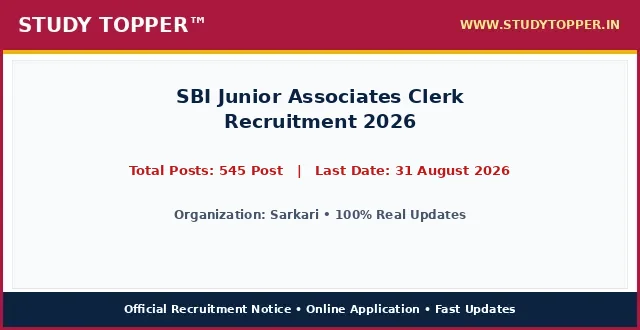
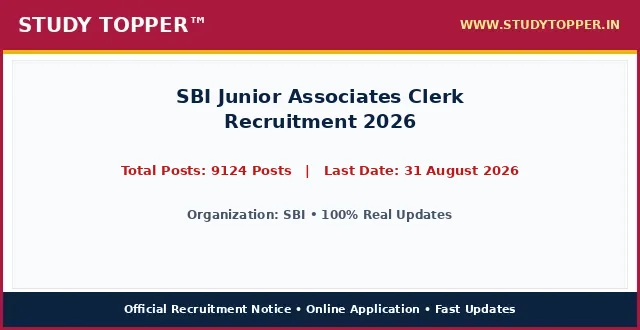
chore(lifecycle): daily auto-sort vacancies and update active dates

Changed region(s): [[0.1875, 0.4848, 0.8125, 0.5455], [0.25, 0.6364, 0.75, 0.6667]]

diff --git a/pages/sbi-junior-associates-clerk-2026.html b/pages/sbi-junior-associates-clerk-2026.html
@@ -987,12 +987,12 @@ ul.wp-block-latest-posts a:hover {
 <main class="site-main" id="main">
 <div class="gb-container gb-container-b39c368c">
 <h1 class="gb-headline gb-headline-e52a0102 gb-headline-text" style="font-size: 22px; font-weight: 700; color: #0000cd; text-align: left; margin: 8px 0 4px 0; line-height: 1.3; width: 100%; font-family: '-apple-system, BlinkMacSystemFont, 'Segoe UI', Roboto, 'Helvetica Neue', Arial, sans-serif', Times, serif, Hind, sans-serif;">SBI Junior Associates Clerk Recruitment 2026</h1>
-<div class="gb-container gb-container-659bd175"><p style="color: #cd0808; font-weight: 700; font-size: 15px; margin: 2px 0 7px 0; text-align: left; font-family: '-apple-system, BlinkMacSystemFont, 'Segoe UI', Roboto, 'Helvetica Neue', Arial, sans-serif', Times, serif, Hind, sans-serif;">Post Date: August 22, 2026 11:45 AM</p></div>
-<p class="gb-headline gb-headline-550ae316 short_Details gb-headline-text" style="width: 100%; max-width: 100%; font-size: 16.8px; line-height: 1.55; color: #000000; text-align: justify; text-justify: inter-word; margin: 8px 0 14px 0; display: block; font-family: '-apple-system, BlinkMacSystemFont, 'Segoe UI', Roboto, 'Helvetica Neue', Arial, sans-serif', Times, serif, Hind, sans-serif;"><strong style="color: #0000cd;">Sarkari</strong> has officially published the recruitment notice <strong style="color: #cd0808;">SBI Junior Associates Clerk Recruitment 2026</strong> under notification number Official Advt 2026. Online applications are invited for 545 Post across multiple departments and cadre positions. Interested candidates possessing the requisite educational qualifications and falling between 18 Years to 40 Years can complete their online registration before the application deadline of 31 August 2026. Applicants should read the eligibility criteria, category reservation rules, and exam scheme thoroughly before submitting applications.</p>
+<div class="gb-container gb-container-659bd175"><p style="color: #cd0808; font-weight: 700; font-size: 15px; margin: 2px 0 7px 0; text-align: left; font-family: '-apple-system, BlinkMacSystemFont, 'Segoe UI', Roboto, 'Helvetica Neue', Arial, sans-serif', Times, serif, Hind, sans-serif;">Post Date: August 22, 2026 12:38 PM</p></div>
+<p class="gb-headline gb-headline-550ae316 short_Details gb-headline-text" style="width: 100%; max-width: 100%; font-size: 16.8px; line-height: 1.55; color: #000000; text-align: justify; text-justify: inter-word; margin: 8px 0 14px 0; display: block; font-family: '-apple-system, BlinkMacSystemFont, 'Segoe UI', Roboto, 'Helvetica Neue', Arial, sans-serif', Times, serif, Hind, sans-serif;"><strong style="color: #0000cd;">State Bank of India (SBI)</strong> has officially published the recruitment notice <strong style="color: #cd0808;">SBI Junior Associates Clerk Recruitment 2026</strong> under notification number 2026. Online applications are invited for 9124 Posts across multiple departments and cadre positions. Interested candidates possessing the requisite educational qualifications and falling between 18 Years to 40 Years can complete their online registration before the application deadline of 31 August 2026. Applicants should read the eligibility criteria, category reservation rules, and exam scheme thoroughly before submitting applications.</p>
 <div class="gb-container gb-container-9849916c"><div class="social-buttons-compact" style="display: flex; justify-content: flex-start; align-items: center; gap: 10px; margin: 10px 0 16px 0; width: 100%;"><a class="social-btn-compact wa" href="https://whatsapp.com/channel/0029Va9xyz" rel="noopener" style="background-color: #00d084; color: #ffffff; padding: 10px 18px; border-radius: 4px; text-decoration: none; font-weight: bold; font-size: 15.5px; display: inline-flex; align-items: center; justify-content: center; height: auto;" target="_blank">WhatsApp</a><a class="social-btn-compact tg" href="https://t.me/studytopperofficial" rel="noopener" style="background-color: #0088cc; color: #ffffff; padding: 10px 18px; border-radius: 4px; text-decoration: none; font-weight: bold; font-size: 15.5px; display: inline-flex; align-items: center; justify-content: center; height: auto;" target="_blank">Telegram</a></div></div>
 <div class="gb-container gb-container-f58e6ca1" style="border: 2px solid #5b032f; border-radius: 4px; overflow: hidden; margin: 15px 0 20px 0; background-color: #ffffff; width: 100%; box-sizing: border-box;">
 <h2 class="gb-headline gb-headline-2ca5a791 gb-headline-text" style="font-size: 16px; font-weight: 700; text-align: center; color: #ef0303; line-height: 1.3; padding: 6px 4px; margin: 0; background: #ffffff; font-family: '-apple-system, BlinkMacSystemFont, 'Segoe UI', Roboto, 'Helvetica Neue', Arial, sans-serif', Times, serif, Hind, sans-serif;">SBI Junior Associates Clerk Recruitment 2026 &ndash; Latest Details &amp; Updates</h2>
-<h3 class="gb-headline gb-headline-7d5f86e8 gb-headline-text" style="font-size: 16px; font-weight: 600; text-align: center; color: #009703; line-height: 1.25; margin: 0; padding: 2px 4px 6px 4px; background: #ffffff; font-family: '-apple-system, BlinkMacSystemFont, 'Segoe UI', Roboto, 'Helvetica Neue', Arial, sans-serif', Times, serif, Hind, sans-serif;">Sarkari : Details &amp; Summary</h3>
+<h3 class="gb-headline gb-headline-7d5f86e8 gb-headline-text" style="font-size: 16px; font-weight: 600; text-align: center; color: #009703; line-height: 1.25; margin: 0; padding: 2px 4px 6px 4px; background: #ffffff; font-family: '-apple-system, BlinkMacSystemFont, 'Segoe UI', Roboto, 'Helvetica Neue', Arial, sans-serif', Times, serif, Hind, sans-serif;">State Bank of India (SBI) : Details &amp; Summary</h3>
 <p class="gb-headline gb-headline-79adf169 gb-headline-text" style="margin: 0 0 6px 0; font-family: '-apple-system, BlinkMacSystemFont, 'Segoe UI', Roboto, 'Helvetica Neue', Arial, sans-serif', Times, serif, Hind, sans-serif; text-align: center; font-size: 18px; font-weight: 700;"><a href="/" style="color: #0000ff; text-decoration: underline;">StudyTopper.in</a></p>
 
 <style id="st-post-boxes-responsive-css">
@@ -1025,7 +1025,7 @@ ul.wp-block-latest-posts a:hover {
     <div style="background-color: #5b032f; color: #ffffff; padding: 8px 10px; font-size: 20px; font-weight: 700; text-align: center; font-family: '-apple-system, BlinkMacSystemFont, 'Segoe UI', Roboto, 'Helvetica Neue', Arial, sans-serif', Times, serif, Hind, sans-serif;">Important Dates</div>
     <div style="padding: 12px 14px; background-color: #ffffff;">
       <ul style="padding-left: 20px; margin: 0; list-style-type: disc; text-align: left; font-size: 14pt; line-height: 1.6; font-family: '-apple-system, BlinkMacSystemFont, 'Segoe UI', Roboto, 'Helvetica Neue', Arial, sans-serif', Times, serif, Hind, sans-serif;">
-        
+        <li><span style="font-size: 14pt;">Application Begin : <strong>As per Official Notification</strong></span></li><li><span style="font-size: 14pt;">Last Date for Apply Online : <span style="color: #ff0000;"><strong>31 August 2026</strong></span></span></li><li><span style="font-size: 14pt;">Pay Exam Fee Last Date : <span style="color: #ff0000;"><strong>31 August 2026</strong></span></span></li><li><span style="font-size: 14pt;">Exam Date : <strong>As per Schedule</strong></span></li><li><span style="font-size: 14pt;">Admit Card Available : <strong>Before Examination</strong></span></li>
       </ul>
     </div>
   </div>
@@ -1034,7 +1034,7 @@ ul.wp-block-latest-posts a:hover {
     <div style="background-color: #5b032f; color: #ffffff; padding: 8px 10px; font-size: 20px; font-weight: 700; text-align: center; font-family: '-apple-system, BlinkMacSystemFont, 'Segoe UI', Roboto, 'Helvetica Neue', Arial, sans-serif', Times, serif, Hind, sans-serif;">Application Fee</div>
     <div style="padding: 12px 14px; background-color: #ffffff;">
       <ul style="padding-left: 20px; margin: 0; list-style-type: disc; text-align: left; font-size: 14pt; line-height: 1.6; font-family: '-apple-system, BlinkMacSystemFont, 'Segoe UI', Roboto, 'Helvetica Neue', Arial, sans-serif', Times, serif, Hind, sans-serif;">
-        <li><span style="font-size: 14pt;">Bihar Police BPSSC Sub Inspector SI Prohibition Result 2026 Advt. No. : <strong>03/2026</strong></span></li><li><span style="font-size: 14pt;">UP Scholarship Online Form 2026 : <strong>2027</strong></span></li>
+        <li><span style="font-size: 14pt;">General / OBC / EWS : <strong>Check Official Notification</strong></span></li><li><span style="font-size: 14pt;">SC / ST / PH : <strong>Check Official Notification</strong></span></li><li><span style="font-size: 14pt;">Payment Mode : <strong>Online Fee Mode via Net Banking, Debit/Credit Card or Offline Challan</strong></span></li>
       </ul>
       <div style="margin-top: 10px; font-size: 14pt; line-height: 1.5; color: #000000; border-top: 1px dashed #ccc; padding-top: 8px; font-family: '-apple-system, BlinkMacSystemFont, 'Segoe UI', Roboto, 'Helvetica Neue', Arial, sans-serif', Times, serif, Hind, sans-serif;">
         <strong>Mode of Payment / Access:</strong> Online via Net Banking, Debit Card, Credit Card, UPI or Free Candidate Portal.
@@ -1047,10 +1047,10 @@ ul.wp-block-latest-posts a:hover {
 <div class="st-grid-row" style="display: flex; flex-wrap: wrap; width: 100%; border-top: 2px solid #5b032f; margin: 0; padding: 0; box-sizing: border-box;">
   <!-- Left Col: Age Limits -->
   <div class="st-col-half st-col-border-right" style="box-sizing: border-box; vertical-align: top;">
-    <div style="background-color: #046132; color: #ffffff; padding: 8px 10px; font-size: 17px; font-weight: 700; text-align: center; font-family: '-apple-system, BlinkMacSystemFont, 'Segoe UI', Roboto, 'Helvetica Neue', Arial, sans-serif', Times, serif, Hind, sans-serif;">Sarkari : Age Limits As On 01 August 2026</div>
+    <div style="background-color: #046132; color: #ffffff; padding: 8px 10px; font-size: 17px; font-weight: 700; text-align: center; font-family: '-apple-system, BlinkMacSystemFont, 'Segoe UI', Roboto, 'Helvetica Neue', Arial, sans-serif', Times, serif, Hind, sans-serif;">State Bank of India (SBI) : Age Limits As On 01/08/2026</div>
     <div style="padding: 12px 14px; background-color: #ffffff;">
       <ul style="padding-left: 20px; margin: 0; list-style-type: disc; text-align: left; font-size: 14pt; line-height: 1.6; font-family: '-apple-system, BlinkMacSystemFont, 'Segoe UI', Roboto, 'Helvetica Neue', Arial, sans-serif', Times, serif, Hind, sans-serif;">
-        
+        <li><span style="font-size: 14pt;">Minimum Age : <strong>18 Years (As per post rules)</strong></span></li><li><span style="font-size: 14pt;">Maximum Age : <strong>40 Years (As per post rules)</strong></span></li><li><span style="font-size: 14pt;">Age Relaxation : <strong>Age Relaxation Extra as per SBI Recruitment Rules.</strong></span></li>
       </ul>
     </div>
   </div>
@@ -1058,7 +1058,7 @@ ul.wp-block-latest-posts a:hover {
   <div class="st-col-half" style="box-sizing: border-box; vertical-align: top;">
     <div style="background-color: #f53c00; color: #ffffff; padding: 8px 10px; font-size: 20px; font-weight: 700; text-align: center; font-family: '-apple-system, BlinkMacSystemFont, 'Segoe UI', Roboto, 'Helvetica Neue', Arial, sans-serif', Times, serif, Hind, sans-serif;">Total Post</div>
     <div style="padding: 24px 10px; background-color: #ffffff; text-align: center;">
-      <span style="font-size: 28px; font-weight: 800; color: #000000; font-family: '-apple-system, BlinkMacSystemFont, 'Segoe UI', Roboto, 'Helvetica Neue', Arial, sans-serif', Times, serif, Hind, sans-serif;">545 Post</span>
+      <span style="font-size: 28px; font-weight: 800; color: #000000; font-family: '-apple-system, BlinkMacSystemFont, 'Segoe UI', Roboto, 'Helvetica Neue', Arial, sans-serif', Times, serif, Hind, sans-serif;">9124 Posts</span>
     </div>
   </div>
 </div>
@@ -1070,7 +1070,19 @@ ul.wp-block-latest-posts a:hover {
 <div class="gb-container gb-container-ec1f6e4c">
 <h2 class="gb-headline gb-headline-c7683bda gb-headline-text" style="font-size: 24px; font-weight: 800; text-align: center; color: #ef0303; line-height: 1.35; margin: 20px 0 12px 0; padding: 6px 4px; font-family: '-apple-system, BlinkMacSystemFont, 'Segoe UI', Roboto, 'Helvetica Neue', Arial, sans-serif', Times, serif, Hind, sans-serif;">SBI Junior Associates Clerk Recruitment 2026 : Key Overview &amp; Matrix</h2>
 <div class="gb-headline gb-headline-60ccea19 gb-headline-text">
-
+<table style="border-collapse: collapse; width: 100%; height: 150px;">
+<tbody>
+<tr style="height: 25px;">
+<td colspan="2" style="width: 50%; text-align: center; height: 25px;"><span style="background-color: #000080; color: #ffffff; font-size: 14pt;"><strong> State Bank of India (SBI) : Category Wise Vacancy Details </strong></span></td>
+</tr>
+<tr style="height: 25px;">
+<td style="width: 50%; height: 25px; text-align: center;"><span style="font-size: 14pt;"><strong>Category / Particulars</strong></span></td>
+<td style="width: 50%; height: 25px; text-align: center;"><span style="font-size: 14pt;"><strong>Count / Status</strong></span></td>
+</tr>
+<tr><td style="text-align: center;">General</td><td style="text-align: center; font-weight: normal; color: inherit;">3253</td></tr><tr><td style="text-align: center;">EWS</td><td style="text-align: center; font-weight: normal; color: inherit;">760</td></tr><tr><td style="text-align: center;">OBC</td><td style="text-align: center; font-weight: normal; color: inherit;">1716</td></tr><tr><td style="text-align: center;">SC</td><td style="text-align: center; font-weight: normal; color: inherit;">1114</td></tr><tr><td style="text-align: center;">ST</td><td style="text-align: center; font-weight: normal; color: inherit;">837</td></tr>
+</tbody>
+</table>
+<p>&nbsp;</p>
 <table style="border-collapse: collapse; width: 100%;">
 <tbody>
 <tr>
@@ -1079,9 +1091,9 @@ ul.wp-block-latest-posts a:hover {
 <th style="background-color: #f53c00; color: #ffffff; padding: 6px 10px; text-align: center; border: 1px solid #d35400; font-size: 15px; font-weight: 700; font-family: '-apple-system, BlinkMacSystemFont, 'Segoe UI', Roboto, 'Helvetica Neue', Arial, sans-serif', Times, serif, Hind, sans-serif;">Eligibility Criteria</th>
 </tr>
 <tr>
-<td style="padding: 8px; border: 1px solid #ddd; font-weight: bold;">Sarkari Recruitment</td>
-<td style="padding: 8px; border: 1px solid #ddd; text-align: center; font-weight: bold;">545 Post</td>
-<td style="padding: 8px; border: 1px solid #ddd;">Please refer to the official notification linked below for detailed educational qualifications.</td>
+<td style="padding: 8px; border: 1px solid #ddd; font-weight: bold;">SBI SBI Junior Associates Clerk Recruitment 2026</td>
+<td style="padding: 8px; border: 1px solid #ddd; text-align: center; font-weight: bold;">9124 Posts</td>
+<td style="padding: 8px; border: 1px solid #ddd;">Passed relevant Educational Qualification from Any Recognized Board / University in India. Read full official notification for post-wise details.</td>
 </tr>
 </tbody>
 </table>
@@ -1093,10 +1105,10 @@ ul.wp-block-latest-posts a:hover {
 <table style="border-collapse: collapse; width: 100%;">
 <tbody>
 <tr>
-<td style="width: 100%; text-align: center;"><span style="background-color: #000080; color: #ffffff; font-size: 14pt; font-weight: bold; display: block; padding: 6px;"> How to Fill Sarkari Online Application Form </span></td>
+<td style="width: 100%; text-align: center;"><span style="background-color: #000080; color: #ffffff; font-size: 14pt; font-weight: bold; display: block; padding: 6px;"> How to Fill State Bank of India (SBI) Online Application Form </span></td>
 </tr>
 <tr>
-<td style="width: 100%;"><ol style="margin:0; padding-left:18px; text-align: left !important; list-style-position: outside !important"><li style="margin-bottom:6px; text-align: left !important;">Read the official recruitment notification carefully before applying.</li><li style="margin-bottom:6px; text-align: left !important;">Keep all basic documents ready: ID Proof, Address Details, Basic Details.</li><li style="margin-bottom:6px; text-align: left !important;">Ready your scanned documents like Photo, Signature, ID Proof, etc.</li><li style="margin-bottom:6px; text-align: left !important;">Click on the 'Apply Online' link given in the Important Links section below.</li><li style="margin-bottom:6px; text-align: left !important;">Fill out all the columns in the application form accurately.</li><li style="margin-bottom:6px; text-align: left !important;">Pay the required application fee if applicable.</li><li style="margin-bottom:6px; text-align: left !important;">Take a printout of the final submitted application form.</li><li style="margin-bottom:6px; text-align: left !important;">Resize candidate photograph and signature accurately using the <a href="https://indtool.in" rel="noopener" target="_blank"><strong>StudyTopper Tools</strong></a> image resizer at indtool.in.</li></ol></td>
+<td style="width: 100%;"><ol style="margin:0; padding-left:18px; text-align: left !important; list-style-position: outside !important"><li style="margin-bottom:6px; text-align: left !important;">Candidate must read the complete official notification issued by SBI before applying.</li><li style="margin-bottom:6px; text-align: left !important;">Collect and verify all essential documents including Educational Proof, ID Proof, Address Details, and Basic Details.</li><li style="margin-bottom:6px; text-align: left !important;">Scan all necessary documents accurately: Passport Size Photograph, Signature, ID Proof, and Category Certificate.</li><li style="margin-bottom:6px; text-align: left !important;">Click on the 'Apply Online' link given in the Important Links section below on StudyTopper.</li><li style="margin-bottom:6px; text-align: left !important;">Fill all required personal, educational, and communication details in the application form carefully.</li><li style="margin-bottom:6px; text-align: left !important;">Review the application form preview thoroughly before final submission.</li><li style="margin-bottom:6px; text-align: left !important;">Pay the prescribed examination fee through online payment gateway if applicable.</li><li style="margin-bottom:6px; text-align: left !important;">Take a clean printout of the final submitted application form for future reference.</li><li style="margin-bottom:6px; text-align: left !important;">Resize candidate photograph and signature accurately using the <a href="https://indtool.in" rel="noopener" target="_blank"><strong>StudyTopper Tools</strong></a> image resizer at indtool.in.</li></ol></td>
 </tr>
 </tbody>
 </table>
@@ -1104,7 +1116,7 @@ ul.wp-block-latest-posts a:hover {
 <table style="border-collapse: collapse; width: 100%;">
 <tbody>
 <tr>
-<td style="width: 100%; text-align: center;"><span style="background-color: #000080; color: #ffffff; font-size: 14pt;"><strong><span style="color: #ffffff;"> Sarkari Recruitment 2026 : Mode Of Selection </span></strong></span></td>
+<td style="width: 100%; text-align: center;"><span style="background-color: #000080; color: #ffffff; font-size: 14pt;"><strong><span style="color: #ffffff;"> State Bank of India (SBI) Recruitment 2026 : Mode Of Selection </span></strong></span></td>
 </tr>
 <tr>
 <td style="width: 100%;">
@@ -1144,10 +1156,26 @@ ul.wp-block-latest-posts a:hover {
 
 <tr style="border-bottom: 1px solid #000000; background-color: #fff37a;">
 <td style="width: 50%; padding: 14px 16px; border-right: 1px solid #000000; text-align: center;">
+<span style="font-size: 19px; font-weight: 800; color: #000000; font-family: '-apple-system, BlinkMacSystemFont, 'Segoe UI', Roboto, 'Helvetica Neue', Arial, sans-serif', Times, serif, Hind, sans-serif;">Join Our WhatsApp Channel</span>
+</td>
+<td style="width: 50%; padding: 14px 16px; text-align: center;">
+<span style="font-size: 20px; font-weight: 800; font-family: '-apple-system, BlinkMacSystemFont, 'Segoe UI', Roboto, 'Helvetica Neue', Arial, sans-serif', Times, serif, Hind, sans-serif;"><a href="https://whatsapp.com/channel/0029VaAbQf01NCrYADMLt00L" aria-label="Click Here for Join Our WhatsApp Channel - SBI Junior Associates Clerk Recruitment 2026" rel="noopener noreferrer" style="color: #0000ef; font-weight: 800; text-decoration: none;" target="_blank">Click Here</a></span>
+</td>
+</tr>
+<tr style="border-bottom: 1px solid #000000; background-color: #fff37a;">
+<td style="width: 50%; padding: 14px 16px; border-right: 1px solid #000000; text-align: center;">
+<span style="font-size: 19px; font-weight: 800; color: #000000; font-family: '-apple-system, BlinkMacSystemFont, 'Segoe UI', Roboto, 'Helvetica Neue', Arial, sans-serif', Times, serif, Hind, sans-serif;">Join Our Telegram Channel</span>
+</td>
+<td style="width: 50%; padding: 14px 16px; text-align: center;">
+<span style="font-size: 20px; font-weight: 800; font-family: '-apple-system, BlinkMacSystemFont, 'Segoe UI', Roboto, 'Helvetica Neue', Arial, sans-serif', Times, serif, Hind, sans-serif;"><a href="https://t.me/SarkariExam_info" aria-label="Click Here for Join Our Telegram Channel - SBI Junior Associates Clerk Recruitment 2026" rel="noopener noreferrer" style="color: #0000ef; font-weight: 800; text-decoration: none;" target="_blank">Click Here</a></span>
+</td>
+</tr>
+<tr style="border-bottom: 1px solid #000000; background-color: #fff37a;">
+<td style="width: 50%; padding: 14px 16px; border-right: 1px solid #000000; text-align: center;">
 <span style="font-size: 19px; font-weight: 800; color: #000000; font-family: '-apple-system, BlinkMacSystemFont, 'Segoe UI', Roboto, 'Helvetica Neue', Arial, sans-serif', Times, serif, Hind, sans-serif;">Apply Online Link</span>
 </td>
 <td style="width: 50%; padding: 14px 16px; text-align: center;">
-<span style="font-size: 20px; font-weight: 800; font-family: '-apple-system, BlinkMacSystemFont, 'Segoe UI', Roboto, 'Helvetica Neue', Arial, sans-serif', Times, serif, Hind, sans-serif;"><a href="https://www.sarkariresult.com/2026/mpesb-group2-subgroup-4-aug26/" aria-label="Click Here for Apply Online Link - SBI Junior Associates Clerk Recruitment 2026" rel="noopener noreferrer" style="color: #0000ef; font-weight: 800; text-decoration: none;" target="_blank">Click Here</a></span>
+<span style="font-size: 20px; font-weight: 800; font-family: '-apple-system, BlinkMacSystemFont, 'Segoe UI', Roboto, 'Helvetica Neue', Arial, sans-serif', Times, serif, Hind, sans-serif;"><a href="https://ibpsreg.ibps.in/sbijajul26/" aria-label="Click Here for Apply Online Link - SBI Junior Associates Clerk Recruitment 2026" rel="noopener noreferrer" style="color: #0000ef; font-weight: 800; text-decoration: none;" target="_blank">Click Here</a></span>
 </td>
 </tr>
 <tr style="border-bottom: 1px solid #000000; background-color: #fff37a;">
@@ -1155,15 +1183,7 @@ ul.wp-block-latest-posts a:hover {
 <span style="font-size: 19px; font-weight: 800; color: #000000; font-family: '-apple-system, BlinkMacSystemFont, 'Segoe UI', Roboto, 'Helvetica Neue', Arial, sans-serif', Times, serif, Hind, sans-serif;">Check Official Notification</span>
 </td>
 <td style="width: 50%; padding: 14px 16px; text-align: center;">
-<span style="font-size: 20px; font-weight: 800; font-family: '-apple-system, BlinkMacSystemFont, 'Segoe UI', Roboto, 'Helvetica Neue', Arial, sans-serif', Times, serif, Hind, sans-serif;"><a href="" aria-label="Click Here for Check Official Notification - SBI Junior Associates Clerk Recruitment 2026" rel="noopener noreferrer" style="color: #0000ef; font-weight: 800; text-decoration: none;" target="_blank">Click Here</a></span>
-</td>
-</tr>
-<tr style="border-bottom: 1px solid #000000; background-color: #fff37a;">
-<td style="width: 50%; padding: 14px 16px; border-right: 1px solid #000000; text-align: center;">
-<span style="font-size: 19px; font-weight: 800; color: #000000; font-family: '-apple-system, BlinkMacSystemFont, 'Segoe UI', Roboto, 'Helvetica Neue', Arial, sans-serif', Times, serif, Hind, sans-serif;">Photo / Sign Resizer Tool</span>
-</td>
-<td style="width: 50%; padding: 14px 16px; text-align: center;">
-<span style="font-size: 20px; font-weight: 800; font-family: '-apple-system, BlinkMacSystemFont, 'Segoe UI', Roboto, 'Helvetica Neue', Arial, sans-serif', Times, serif, Hind, sans-serif;"><a href="https://indtool.in" aria-label="Click Here for Photo / Sign Resizer Tool - SBI Junior Associates Clerk Recruitment 2026" rel="noopener noreferrer" style="color: #0000ef; font-weight: 800; text-decoration: none;" target="_blank">Click Here</a></span>
+<span style="font-size: 20px; font-weight: 800; font-family: '-apple-system, BlinkMacSystemFont, 'Segoe UI', Roboto, 'Helvetica Neue', Arial, sans-serif', Times, serif, Hind, sans-serif;"><a href="https://sbi.bank.in/webfiles/uploads/files_2627/08/JA_2026_Detailed_Advt_Eng.pdf" aria-label="Click Here for Check Official Notification - SBI Junior Associates Clerk Recruitment 2026" rel="noopener noreferrer" style="color: #0000ef; font-weight: 800; text-decoration: none;" target="_blank">Click Here</a></span>
 </td>
 </tr>
 <tr style="border-bottom: 1px solid #000000; background-color: #fff37a;">
@@ -1171,15 +1191,55 @@ ul.wp-block-latest-posts a:hover {
 <span style="font-size: 19px; font-weight: 800; color: #000000; font-family: '-apple-system, BlinkMacSystemFont, 'Segoe UI', Roboto, 'Helvetica Neue', Arial, sans-serif', Times, serif, Hind, sans-serif;">Check Sarkari Result</span>
 </td>
 <td style="width: 50%; padding: 14px 16px; text-align: center;">
-<span style="font-size: 20px; font-weight: 800; font-family: '-apple-system, BlinkMacSystemFont, 'Segoe UI', Roboto, 'Helvetica Neue', Arial, sans-serif', Times, serif, Hind, sans-serif;"><a href="/" aria-label="Click Here for Check Sarkari Result - SBI Junior Associates Clerk Recruitment 2026" rel="noopener noreferrer" style="color: #0000ef; font-weight: 800; text-decoration: none;" >Click Here</a></span>
+<span style="font-size: 20px; font-weight: 800; font-family: '-apple-system, BlinkMacSystemFont, 'Segoe UI', Roboto, 'Helvetica Neue', Arial, sans-serif', Times, serif, Hind, sans-serif;"><a href="https://sarkariresult.com.cm/" aria-label="Click Here for Check Sarkari Result - SBI Junior Associates Clerk Recruitment 2026" rel="noopener noreferrer" style="color: #0000ef; font-weight: 800; text-decoration: none;" target="_blank">Click Here</a></span>
+</td>
+</tr>
+<tr style="border-bottom: 1px solid #000000; background-color: #fff37a;">
+<td style="width: 50%; padding: 14px 16px; border-right: 1px solid #000000; text-align: center;">
+<span style="font-size: 19px; font-weight: 800; color: #000000; font-family: '-apple-system, BlinkMacSystemFont, 'Segoe UI', Roboto, 'Helvetica Neue', Arial, sans-serif', Times, serif, Hind, sans-serif;">SBI Official Website</span>
+</td>
+<td style="width: 50%; padding: 14px 16px; text-align: center;">
+<span style="font-size: 20px; font-weight: 800; font-family: '-apple-system, BlinkMacSystemFont, 'Segoe UI', Roboto, 'Helvetica Neue', Arial, sans-serif', Times, serif, Hind, sans-serif;"><a href="https://sbi.bank.in/web/careers/current-openings" aria-label="Click Here for SBI Official Website - SBI Junior Associates Clerk Recruitment 2026" rel="noopener noreferrer" style="color: #0000ef; font-weight: 800; text-decoration: none;" target="_blank">Click Here</a></span>
+</td>
+</tr>
+<tr style="border-bottom: 1px solid #000000; background-color: #fff37a;">
+<td style="width: 50%; padding: 14px 16px; border-right: 1px solid #000000; text-align: center;">
+<span style="font-size: 19px; font-weight: 800; color: #000000; font-family: '-apple-system, BlinkMacSystemFont, 'Segoe UI', Roboto, 'Helvetica Neue', Arial, sans-serif', Times, serif, Hind, sans-serif;">Latest Posts Haryana HTET Score Card 2026 – Out SSC Delhi Police Constable (Executive) PE & MT Notice 2026 UPSC CDS-II Final Result With Marks 2026 IDBI JAM Final Result 2026 Railway RRB ALP Application Status 2026 – Out</span>
+</td>
+<td style="width: 50%; padding: 14px 16px; text-align: center;">
+<span style="font-size: 20px; font-weight: 800; font-family: '-apple-system, BlinkMacSystemFont, 'Segoe UI', Roboto, 'Helvetica Neue', Arial, sans-serif', Times, serif, Hind, sans-serif;"><a href="https://sarkariresult.com.cm/ssc-delhi-police-constable-executive-2026/" aria-label="Click Here for Latest Posts Haryana HTET Score Card 2026 – Out SSC Delhi Police Constable (Executive) PE & MT Notice 2026 UPSC CDS-II Final Result With Marks 2026 IDBI JAM Final Result 2026 Railway RRB ALP Application Status 2026 – Out - SBI Junior Associates Clerk Recruitment 2026" rel="noopener noreferrer" style="color: #0000ef; font-weight: 800; text-decoration: none;" target="_blank">Click Here</a></span>
+</td>
+</tr>
+<tr style="border-bottom: 1px solid #000000; background-color: #fff37a;">
+<td style="width: 50%; padding: 14px 16px; border-right: 1px solid #000000; text-align: center;">
+<span style="font-size: 19px; font-weight: 800; color: #000000; font-family: '-apple-system, BlinkMacSystemFont, 'Segoe UI', Roboto, 'Helvetica Neue', Arial, sans-serif', Times, serif, Hind, sans-serif;">Latest Posts Haryana HTET Score Card 2026 – Out SSC Delhi Police Constable (Executive) PE & MT Notice 2026 UPSC CDS-II Final Result With Marks 2026 IDBI JAM Final Result 2026 Railway RRB ALP Application Status 2026 – Out</span>
+</td>
+<td style="width: 50%; padding: 14px 16px; text-align: center;">
+<span style="font-size: 20px; font-weight: 800; font-family: '-apple-system, BlinkMacSystemFont, 'Segoe UI', Roboto, 'Helvetica Neue', Arial, sans-serif', Times, serif, Hind, sans-serif;"><a href="https://sarkariresult.com.cm/ssc-selection-phase-14-2026/" aria-label="Click Here for Latest Posts Haryana HTET Score Card 2026 – Out SSC Delhi Police Constable (Executive) PE & MT Notice 2026 UPSC CDS-II Final Result With Marks 2026 IDBI JAM Final Result 2026 Railway RRB ALP Application Status 2026 – Out - SBI Junior Associates Clerk Recruitment 2026" rel="noopener noreferrer" style="color: #0000ef; font-weight: 800; text-decoration: none;" target="_blank">Click Here</a></span>
+</td>
+</tr>
+<tr style="border-bottom: 1px solid #000000; background-color: #fff37a;">
+<td style="width: 50%; padding: 14px 16px; border-right: 1px solid #000000; text-align: center;">
+<span style="font-size: 19px; font-weight: 800; color: #000000; font-family: '-apple-system, BlinkMacSystemFont, 'Segoe UI', Roboto, 'Helvetica Neue', Arial, sans-serif', Times, serif, Hind, sans-serif;">Latest Posts Haryana HTET Score Card 2026 – Out SSC Delhi Police Constable (Executive) PE & MT Notice 2026 UPSC CDS-II Final Result With Marks 2026 IDBI JAM Final Result 2026 Railway RRB ALP Application Status 2026 – Out</span>
+</td>
+<td style="width: 50%; padding: 14px 16px; text-align: center;">
+<span style="font-size: 20px; font-weight: 800; font-family: '-apple-system, BlinkMacSystemFont, 'Segoe UI', Roboto, 'Helvetica Neue', Arial, sans-serif', Times, serif, Hind, sans-serif;"><a href="https://sarkariresult.com.cm/upsssc-stenographer-2025/" aria-label="Click Here for Latest Posts Haryana HTET Score Card 2026 – Out SSC Delhi Police Constable (Executive) PE & MT Notice 2026 UPSC CDS-II Final Result With Marks 2026 IDBI JAM Final Result 2026 Railway RRB ALP Application Status 2026 – Out - SBI Junior Associates Clerk Recruitment 2026" rel="noopener noreferrer" style="color: #0000ef; font-weight: 800; text-decoration: none;" target="_blank">Click Here</a></span>
+</td>
+</tr>
+<tr style="border-bottom: 1px solid #000000; background-color: #fff37a;">
+<td style="width: 50%; padding: 14px 16px; border-right: 1px solid #000000; text-align: center;">
+<span style="font-size: 19px; font-weight: 800; color: #000000; font-family: '-apple-system, BlinkMacSystemFont, 'Segoe UI', Roboto, 'Helvetica Neue', Arial, sans-serif', Times, serif, Hind, sans-serif;">Latest Posts Haryana HTET Score Card 2026 – Out SSC Delhi Police Constable (Executive) PE & MT Notice 2026 UPSC CDS-II Final Result With Marks 2026 IDBI JAM Final Result 2026 Railway RRB ALP Application Status 2026 – Out</span>
+</td>
+<td style="width: 50%; padding: 14px 16px; text-align: center;">
+<span style="font-size: 20px; font-weight: 800; font-family: '-apple-system, BlinkMacSystemFont, 'Segoe UI', Roboto, 'Helvetica Neue', Arial, sans-serif', Times, serif, Hind, sans-serif;"><a href="https://sarkariresult.com.cm/railway-rrb-group-d-level-1-recruitment-2026-online/" aria-label="Click Here for Latest Posts Haryana HTET Score Card 2026 – Out SSC Delhi Police Constable (Executive) PE & MT Notice 2026 UPSC CDS-II Final Result With Marks 2026 IDBI JAM Final Result 2026 Railway RRB ALP Application Status 2026 – Out - SBI Junior Associates Clerk Recruitment 2026" rel="noopener noreferrer" style="color: #0000ef; font-weight: 800; text-decoration: none;" target="_blank">Click Here</a></span>
 </td>
 </tr>
 <tr style=" background-color: #fff37a;">
 <td style="width: 50%; padding: 14px 16px; border-right: 1px solid #000000; text-align: center;">
-<span style="font-size: 19px; font-weight: 800; color: #000000; font-family: '-apple-system, BlinkMacSystemFont, 'Segoe UI', Roboto, 'Helvetica Neue', Arial, sans-serif', Times, serif, Hind, sans-serif;">Sarkari Website</span>
+<span style="font-size: 19px; font-weight: 800; color: #000000; font-family: '-apple-system, BlinkMacSystemFont, 'Segoe UI', Roboto, 'Helvetica Neue', Arial, sans-serif', Times, serif, Hind, sans-serif;">Latest Posts Haryana HTET Score Card 2026 – Out SSC Delhi Police Constable (Executive) PE & MT Notice 2026 UPSC CDS-II Final Result With Marks 2026 IDBI JAM Final Result 2026 Railway RRB ALP Application Status 2026 – Out</span>
 </td>
 <td style="width: 50%; padding: 14px 16px; text-align: center;">
-<span style="font-size: 20px; font-weight: 800; font-family: '-apple-system, BlinkMacSystemFont, 'Segoe UI', Roboto, 'Helvetica Neue', Arial, sans-serif', Times, serif, Hind, sans-serif;"><a href="" aria-label="Click Here for Sarkari Website - SBI Junior Associates Clerk Recruitment 2026" rel="noopener noreferrer" style="color: #0000ef; font-weight: 800; text-decoration: none;" target="_blank">Click Here</a></span>
+<span style="font-size: 20px; font-weight: 800; font-family: '-apple-system, BlinkMacSystemFont, 'Segoe UI', Roboto, 'Helvetica Neue', Arial, sans-serif', Times, serif, Hind, sans-serif;"><a href="https://sarkariresult.com.cm/uppsc-gic-lecturer-2025/" aria-label="Click Here for Latest Posts Haryana HTET Score Card 2026 – Out SSC Delhi Police Constable (Executive) PE & MT Notice 2026 UPSC CDS-II Final Result With Marks 2026 IDBI JAM Final Result 2026 Railway RRB ALP Application Status 2026 – Out - SBI Junior Associates Clerk Recruitment 2026" rel="noopener noreferrer" style="color: #0000ef; font-weight: 800; text-decoration: none;" target="_blank">Click Here</a></span>
 </td>
 </tr>
 </tbody>
@@ -1193,9 +1253,9 @@ ul.wp-block-latest-posts a:hover {
   <div style="font-size: 14.5px; line-height: 1.65; color: #222222;">
     <p style="margin: 0 0 4px 0;"><strong style="color: #000080;">Q1. What is the last date to apply for SBI Junior Associates Clerk Recruitment 2026?</strong></p>
 <p style="margin: 0 0 16px 0; color: #333333; line-height: 1.6;">Ans. The last date for online submission of application is 31 August 2026.</p><p style="margin: 0 0 4px 0;"><strong style="color: #000080;">Q2. What is the age limit for SBI Junior Associates Clerk Recruitment 2026?</strong></p>
-<p style="margin: 0 0 16px 0; color: #333333; line-height: 1.6;">Ans. Candidate age should generally be between 18 Years and 40 Years as on 01 August 2026. Age relaxation is applicable per rules.</p><p style="margin: 0 0 4px 0;"><strong style="color: #000080;">Q3. What is the application fee for SBI Junior Associates Clerk Recruitment 2026?</strong></p>
-<p style="margin: 0 0 16px 0; color: #333333; line-height: 1.6;">Ans. Application fee varies by category (e.g., General/OBC: Rs. 100/-, SC/ST/PwD: Exempted).</p><p style="margin: 0 0 4px 0;"><strong style="color: #000080;">Q4. How many total posts are available in SBI Junior Associates Clerk Recruitment 2026?</strong></p>
-<p style="margin: 0 0 16px 0; color: #333333; line-height: 1.6;">Ans. A total of 545 Post have been officially announced for this recruitment drive.</p><p style="margin: 0 0 4px 0;"><strong style="color: #000080;">Q5. How can I apply online for SBI Junior Associates Clerk Recruitment 2026?</strong></p>
+<p style="margin: 0 0 16px 0; color: #333333; line-height: 1.6;">Ans. Candidate age should generally be between 18 Years and 40 Years as on 01/08/2026. Age relaxation is applicable per rules.</p><p style="margin: 0 0 4px 0;"><strong style="color: #000080;">Q3. What is the application fee for SBI Junior Associates Clerk Recruitment 2026?</strong></p>
+<p style="margin: 0 0 16px 0; color: #333333; line-height: 1.6;">Ans. Application fee varies by category (e.g., General/OBC: Check Official Notification, SC/ST/PwD: Exempted).</p><p style="margin: 0 0 4px 0;"><strong style="color: #000080;">Q4. How many total posts are available in SBI Junior Associates Clerk Recruitment 2026?</strong></p>
+<p style="margin: 0 0 16px 0; color: #333333; line-height: 1.6;">Ans. A total of 9124 Posts have been officially announced for this recruitment drive.</p><p style="margin: 0 0 4px 0;"><strong style="color: #000080;">Q5. How can I apply online for SBI Junior Associates Clerk Recruitment 2026?</strong></p>
 <p style="margin: 0 0 0 0; color: #333333; line-height: 1.6;">Ans. Eligible candidates can click the 'Apply Online' link in the Important Links table, register, fill details, resize photo/signature via indtool.in, and submit before 31 August 2026.</p>
   </div>
 </div>
